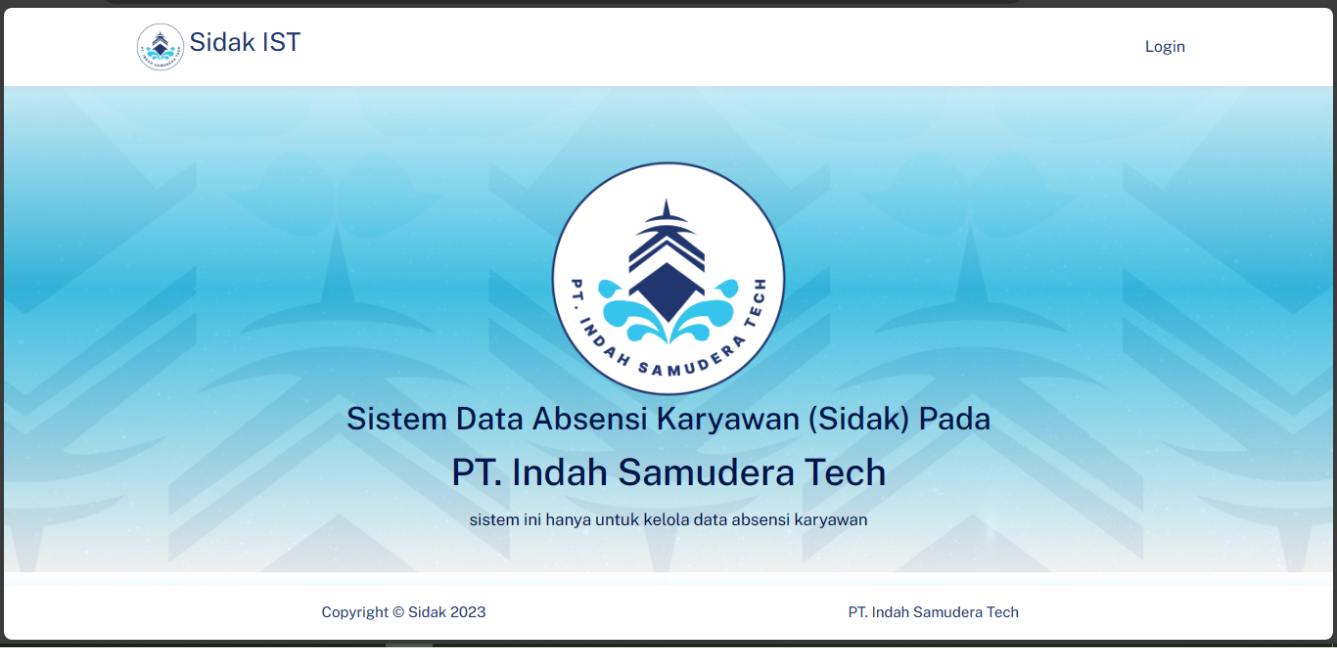
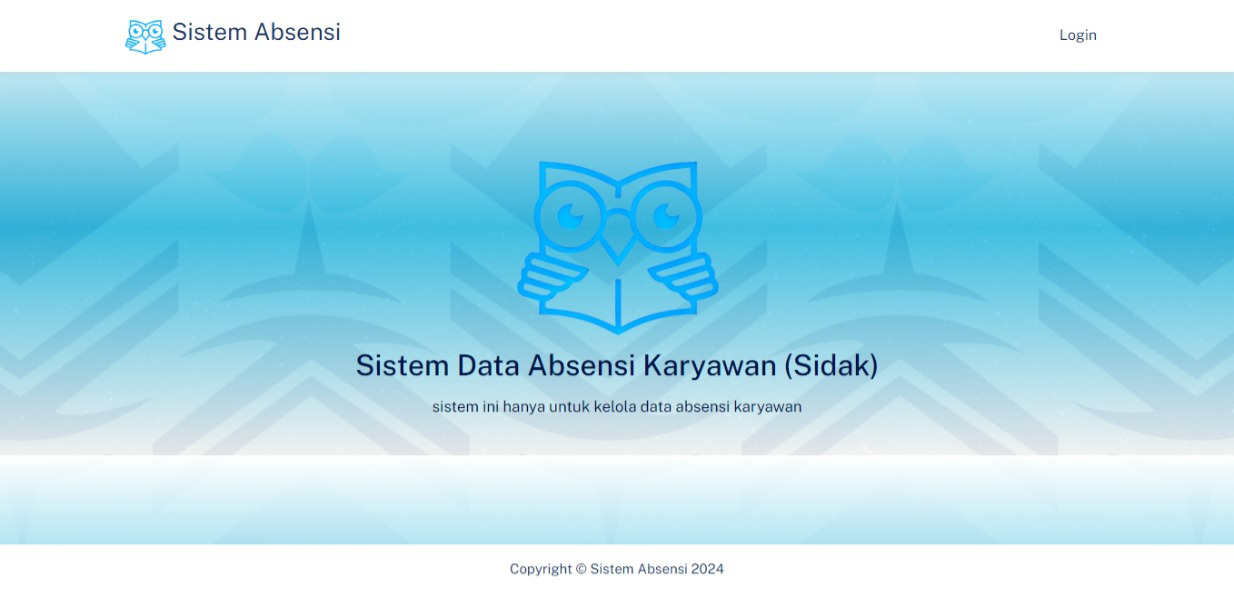
perubahan tampilan

diff --git a/resources/views/index.blade.php b/resources/views/index.blade.php
@@ -8,7 +8,7 @@
     <meta name="viewport"
         content="width=device-width, initial-scale=1.0, user-scalable=no, minimum-scale=1.0, maximum-scale=1.0" />
 
-    <title>Sidak IST </title>
+    <title>Sistem Absensi </title>
 
     <meta name="description" content="" />
     <link rel="icon" type="image/x-icon" href="/logo/icon.png" />
@@ -40,146 +40,136 @@
     </style>
 </head>
 
-{{--
+<body>
 
-<body style="background-image: url('/logo/gambar1.png'); background-repeat: no-repeat;"> --}}
+    <div class="modal fade" id="logout" tabindex="-1" aria-labelledby="exampleModalLabel" aria-hidden="true">
+        <div class="modal-dialog modal-dialog-centered">
+            <div class="modal-content">
+                <div class="modal-header">
+                    <h6 class="modal-title fs-5" id="exampleModalLabel">Logout</h6>
+                    <button type="button" class="btn-close" data-bs-dismiss="modal" aria-label="Close"></button>
+                </div>
 
-    <body>
-
-        <div class="modal fade" id="logout" tabindex="-1" aria-labelledby="exampleModalLabel" aria-hidden="true">
-            <div class="modal-dialog modal-dialog-centered">
-                <div class="modal-content">
-                    <div class="modal-header">
-                        <h6 class="modal-title fs-5" id="exampleModalLabel">Logout</h6>
-                        <button type="button" class="btn-close" data-bs-dismiss="modal" aria-label="Close"></button>
-                    </div>
-
-                    <div class="modal-body">
-                        Apakah Anda yakin ingin keluar?
-                    </div>
-                    <div class="modal-footer">
-                        <button class="btn btn-danger" data-bs-dismiss="modal" aria-label="Close">Batal</button>
-                        <form action="/logout" method="post">
-                            @csrf
-                            <button type="submit" class="btn btn-primary">Keluar</button>
-                        </form>
-                    </div>
+                <div class="modal-body">
+                    Apakah Anda yakin ingin keluar?
+                </div>
+                <div class="modal-footer">
+                    <button class="btn btn-danger" data-bs-dismiss="modal" aria-label="Close">Batal</button>
+                    <form action="/logout" method="post">
+                        @csrf
+                        <button type="submit" class="btn btn-primary">Keluar</button>
+                    </form>
                 </div>
             </div>
         </div>
+    </div>
 
 
-        <nav
-            class="main-header navbar navbar-expand navbar-detached d-flex justify-content-between bg-navbar-theme px-3">
-            <div class="container">
-                <a class="navbar-brand text-primary" href="/">
-                    <img src="/logo/icon.png" alt="Logo" class="img-fluid" style="max-width: 50px;">
-                    <span class="fs-3 mt-3" style="color: #21366F">Sidak IST</span>
-                </a>
+    <nav class="main-header navbar navbar-expand navbar-detached d-flex justify-content-between bg-navbar-theme px-3">
+        <div class="container">
+            <a class="navbar-brand text-primary" href="/">
+                <img src="/logo/icon.png" alt="Logo" class="img-fluid" style="max-width: 50px;">
+                <span class="fs-3 mt-3" style="color: #21366F">Sistem Absensi</span>
+            </a>
 
-                <div class="navbar-nav-right d-flex align-items-end navbar-expand-xl" id="navbar-collapse">
-                    <ul class="navbar-nav flex-row align-items-center ms-auto">
-                        @auth
-                        <li class="nav-item navbar-dropdown dropdown-user dropdown">
-                            <a class="nav-link dropdown-toggle hide-arrow" href="javascript:void(0);"
-                                data-bs-toggle="dropdown">
-                                <span class="brand-name" style='color: #21366F'>{{ Auth()->user()->name }}</span>
-                                <i class='bx bxs-user-circle' style='font-size: 24px; color: #21366F'></i>
-                            </a>
-                            <ul class="dropdown-menu dropdown-menu-end">
-                                <li>
-                                    <a class="dropdown-item" href="#">
-                                        <div class="d-flex">
-                                            <div class="flex-grow-1">
-                                                <span class="fw-semibold d-block">{{ Auth()->user()->name }}</span>
-                                                <small class="text-muted">{{ Auth()->user()->posisi_id }} - {{
-                                                    Auth()->user()->jabatan_id }}</small>
-                                            </div>
+            <div class="navbar-nav-right d-flex align-items-end navbar-expand-xl" id="navbar-collapse">
+                <ul class="navbar-nav flex-row align-items-center ms-auto">
+                    @auth
+                    <li class="nav-item navbar-dropdown dropdown-user dropdown">
+                        <a class="nav-link dropdown-toggle hide-arrow" href="javascript:void(0);"
+                            data-bs-toggle="dropdown">
+                            <span class="brand-name" style='color: #21366F'>{{ Auth()->user()->name }}</span>
+                            <i class='bx bxs-user-circle' style='font-size: 24px; color: #21366F'></i>
+                        </a>
+                        <ul class="dropdown-menu dropdown-menu-end">
+                            <li>
+                                <a class="dropdown-item" href="#">
+                                    <div class="d-flex">
+                                        <div class="flex-grow-1">
+                                            <span class="fw-semibold d-block">{{ Auth()->user()->name }}</span>
+                                            <small class="text-muted">{{ Auth()->user()->posisi_id }} - {{
+                                                Auth()->user()->jabatan_id }}</small>
                                         </div>
-                                    </a>
-                                </li>
-                                <li>
-                                    <div class="dropdown-divider"></div>
-                                </li>
-                                <li>
-                                    <a class="dropdown-item" href="/dashboard">
-                                        <i class="bx bx-home me-2"></i>
-                                        <span class="align-middle" style='color: #21366F'>Dashoard</span>
-                                    </a>
-                                </li>
-                                <li>
-                                    <a class="dropdown-item" href="/userprofile">
-                                        <i class="bx bx-user me-2"></i>
-                                        <span class="align-middle" style='color: #21366F'>My Profile</span>
-                                    </a>
-                                </li>
-                                <li>
-                                    <div class="dropdown-divider"></div>
-                                </li>
-                                <li>
-                                    <a class="dropdown-item" data-bs-toggle="modal" data-bs-target="#logout">
-                                        <i class="bx bx-power-off me-2"></i>
-                                        <span class="align-middle" style='color: #21366F'>Log Out</span>
-                                    </a>
+                                    </div>
+                                </a>
+                            </li>
+                            <li>
+                                <div class="dropdown-divider"></div>
+                            </li>
+                            <li>
+                                <a class="dropdown-item" href="/dashboard">
+                                    <i class="bx bx-home me-2"></i>
+                                    <span class="align-middle" style='color: #21366F'>Dashoard</span>
+                                </a>
+                            </li>
+                            <li>
+                                <a class="dropdown-item" href="/userprofile">
+                                    <i class="bx bx-user me-2"></i>
+                                    <span class="align-middle" style='color: #21366F'>My Profile</span>
+                                </a>
+                            </li>
+                            <li>
+                                <div class="dropdown-divider"></div>
+                            </li>
+                            <li>
+                                <a class="dropdown-item" data-bs-toggle="modal" data-bs-target="#logout">
+                                    <i class="bx bx-power-off me-2"></i>
+                                    <span class="align-middle" style='color: #21366F'>Log Out</span>
+                                </a>
 
-                                </li>
-                            </ul>
-                        </li>
-                        @endauth
+                            </li>
+                        </ul>
+                    </li>
+                    @endauth
 
-                        @guest
-                        <a class="navbar-brand" href="/login" style="color: #21366F">Login</a>
-                        @endguest
-                    </ul>
-                </div>
-
+                    @guest
+                    <a class="navbar-brand" href="/login" style="color: #21366F">Login</a>
+                    @endguest
+                </ul>
             </div>
-        </nav>
 
-        <div class="container mt-5">
-            <div class="p-4">
-                <div class="row justify-content-center">
-                    <div class="col-lg-12 text-center">
-                        <img src="/logo/icon.png" class="img-fluid" style="max-width: 250px;">
-                        <h2 class="text-capitalize" style="color: #00154e">
-                            Sistem Data Absensi Karyawan (Sidak) pada
-                        </h2>
-                        <h1 class="text-capitalize" style="color: #00154e">PT. Indah Samudera Tech
-                        </h1>
-                        <p class="lead" style="color: #00154e">
-                            sistem ini hanya untuk kelola data absensi karyawan
-                        </p>
+        </div>
+    </nav>
+
+    <div class="container mt-5">
+        <div class="p-4">
+            <div class="row justify-content-center">
+                <div class="col-lg-12 text-center">
+                    <img src="/logo/icon.png" class="img-fluid" style="max-width: 250px;">
+                    <h2 class="text-capitalize" style="color: #00154e">
+                        Sistem Data Absensi Karyawan (Sidak)
+                    </h2>
+                    <p class="lead" style="color: #00154e">
+                        sistem ini hanya untuk kelola data absensi karyawan
+                    </p>
+                </div>
+            </div>
+        </div>
+    </div>
+
+
+    <footer class="text-center fixed-bottom bg-white mt-3" style="color: #21366F">
+        <div class="footer-below">
+            <div class="container">
+                <div class="row p-3">
+                    <div class="col-lg-12">
+                        <span>Copyright &copy; Sistem Absensi
+                            <?= date('Y') ?>
+                        </span>
                     </div>
                 </div>
             </div>
         </div>
+    </footer>
 
 
-        <footer class="text-center fixed-bottom bg-white mt-3" style="color: #21366F">
-            <div class="footer-below">
-                <div class="container">
-                    <div class="row p-3">
-                        <div class="col-lg-6">
-                            <span>Copyright &copy; Sidak
-                                <?= date('Y') ?>
-                            </span>
-                        </div>
-                        <div class="col-lg-6">
-                            <span class="float-lg-right">PT. Indah Samudera Tech</span>
-                        </div>
-                    </div>
-                </div>
-            </div>
-        </footer>
-
-
-        <script src="/assets/vendor/libs/jquery/jquery.js"></script>
-        <script src="/assets/vendor/libs/popper/popper.js"></script>
-        <script src="/assets/vendor/js/bootstrap.js"></script>
-        <script src="/assets/vendor/libs/perfect-scrollbar/perfect-scrollbar.js"></script>
-        <script src="/assets/vendor/js/menu.js"></script>
-        <script src="/assets/js/main.js"></script>
-        <script async defer src="https://buttons.github.io/buttons.js"></script>
-    </body>
+    <script src="/assets/vendor/libs/jquery/jquery.js"></script>
+    <script src="/assets/vendor/libs/popper/popper.js"></script>
+    <script src="/assets/vendor/js/bootstrap.js"></script>
+    <script src="/assets/vendor/libs/perfect-scrollbar/perfect-scrollbar.js"></script>
+    <script src="/assets/vendor/js/menu.js"></script>
+    <script src="/assets/js/main.js"></script>
+    <script async defer src="https://buttons.github.io/buttons.js"></script>
+</body>
 
 </html>

diff --git a/resources/views/dashboard/partials/main.blade.php b/resources/views/dashboard/partials/main.blade.php
@@ -5,7 +5,7 @@
     <!-- <meta charset="UTF-8"> -->
     <meta name="viewport" content="width=device-width, initial-scale=1.0">
     <meta http-equiv="Content-Type" content="text/html; charset=utf-8" />
-    <title>Sidak IST | @yield('page')</title>
+    <title>Sistem Absensi | @yield('page')</title>
     <link rel="icon" type="image/x-icon" href="/logo/icon.png" />
 
     <!-- Tell the browser to be responsive to screen width -->
@@ -110,7 +110,7 @@
     <link href="https://cdn.jsdelivr.net/npm/bootstrap@5.3.2/dist/css/bootstrap.min.css" rel="stylesheet"
         integrity="sha384-T3c6CoIi6uLrA9TneNEoa7RxnatzjcDSCmG1MXxSR1GAsXEV/Dwwykc2MPK8M2HN" crossorigin="anonymous">
     <link rel="stylesheet" href="https://cdn.jsdelivr.net/npm/bootstrap-icons@1.11.1/font/bootstrap-icons.css">
-    
+
 </head>
 <!-- sidebar-collapse -->
 
@@ -367,34 +367,7 @@
 
     @yield('script')
 
-    {{-- @if (count($errors)>0)
-    @foreach ($errors->all() as $error)
-    <script>
-        toastr.error("{{ $error }}");
-    </script>
-    @endforeach
-    @endif
-    @if (Session::has('success'))
-    <script>
-        toastr.success("{{ Session('success') }}");
-    </script>
-    @endif
-    @if (Session::has('warning'))
-    <script>
-        toastr.warning("{{ Session('warning') }}");
-    </script>
-    @endif
-    @if (Session::has('info'))
-    <script>
-        toastr.info("{{ Session('info') }}");
-    </script>
-    @endif
-    @if (Session::has('error'))
-    <script>
-        toastr.error("{{ Session('error') }}");
-    </script>
-    @endif --}}
-
+    
     <script src="https://cdn.jsdelivr.net/npm/bootstrap@5.3.2/dist/js/bootstrap.bundle.min.js"
         integrity="sha384-C6RzsynM9kWDrMNeT87bh95OGNyZPhcTNXj1NW7RuBCsyN/o0jlpcV8Qyq46cDfL" crossorigin="anonymous">
     </script>

diff --git a/resources/views/auth/index.blade.php b/resources/views/auth/index.blade.php
@@ -8,8 +8,8 @@
     <meta name="viewport"
         content="width=device-width, initial-scale=1.0, user-scalable=no, minimum-scale=1.0, maximum-scale=1.0" />
 
-    <title>Sidak IST | Login</title>
-
+    <title>Sistem Absensi | Login</title>
+ x
     <meta name="description" content="" />
     <link rel="icon" type="image/x-icon" href="/logo/icon.png" />
     <link rel="preconnect" href="https://fonts.googleapis.com" />
@@ -30,7 +30,6 @@
         body {
             background:
                 linear-gradient(rgba(255, 255, 255, 0.384), rgba(53, 196, 236, 0.767), rgba(255, 255, 255, 0.384)),
-                /* linear-gradient(rgba(53, 196, 236, 0.5), rgba(255, 255, 255, 0.384)), */
                 url('/logo/background.png') no-repeat;
         }
     </style>
@@ -45,7 +44,7 @@
                         <div class="app-brand justify-content-center" style="margin-bottom: -5px">
                             <a href="/login" class="app-brand-link">
                                 <span class="app-brand-logo">
-                                    <img src="/logo/logo2.png" width="200px">
+                                    <img src="/logo/icon.png" width="200px">
                                 </span>
                             </a>
                         </div>

diff --git a/resources/views/dashboard/partials/sidebar.blade.php b/resources/views/dashboard/partials/sidebar.blade.php
@@ -1,7 +1,7 @@
 <aside class="main-sidebar sidebar-dark-primary elevation-4">
     <a href="" class="brand-link text-decoration-none">
         <img src="/logo/icon.png" alt="AdminLTE Logo" class="brand-image img-circle elevation-3">
-        <span class="brand-text font-weight-light text-uppercase"><strong>Sidak IST</strong></span>
+        <span class="brand-text font-weight-light text-uppercase"><strong>Sistem Absensi</strong></span>
     </a>
 
     <div class="sidebar">

diff --git a/resources/views/dashboard/partials/footer.blade.php b/resources/views/dashboard/partials/footer.blade.php
@@ -1,5 +1,5 @@
 <footer class="main-footer text-center">
-    <strong class="float-lg-left">Copyright &copy; Sidak IST
+    <strong class="float-lg-left">Copyright &copy; Sistem Absensi
         <?= date('Y') ?>.
     </strong>
 </footer>
